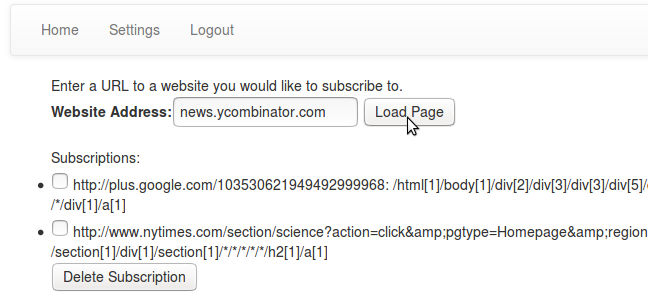
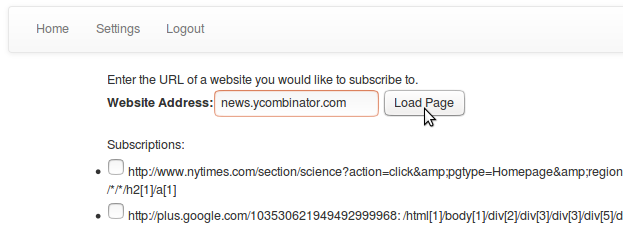
Copy change. Remove irrelevant file from codebase.

Changed region(s): [[0.061, 0.2478, 1.0, 0.9912], [0.1525, 0.0619, 0.366, 0.1549], [0.061, 0.0619, 0.122, 0.1549]]

diff --git a/templates/home-view.html b/templates/home-view.html
@@ -7,7 +7,7 @@
 
 {% if user and not user.is_anonymous %}
 
-Enter a URL to a website you would like to subscribe to.
+Enter the URL of a website you would like to subscribe to.
 
 <form action="/subscribe/" method="post">{% csrf_token %}
     {{ urlForm }}
